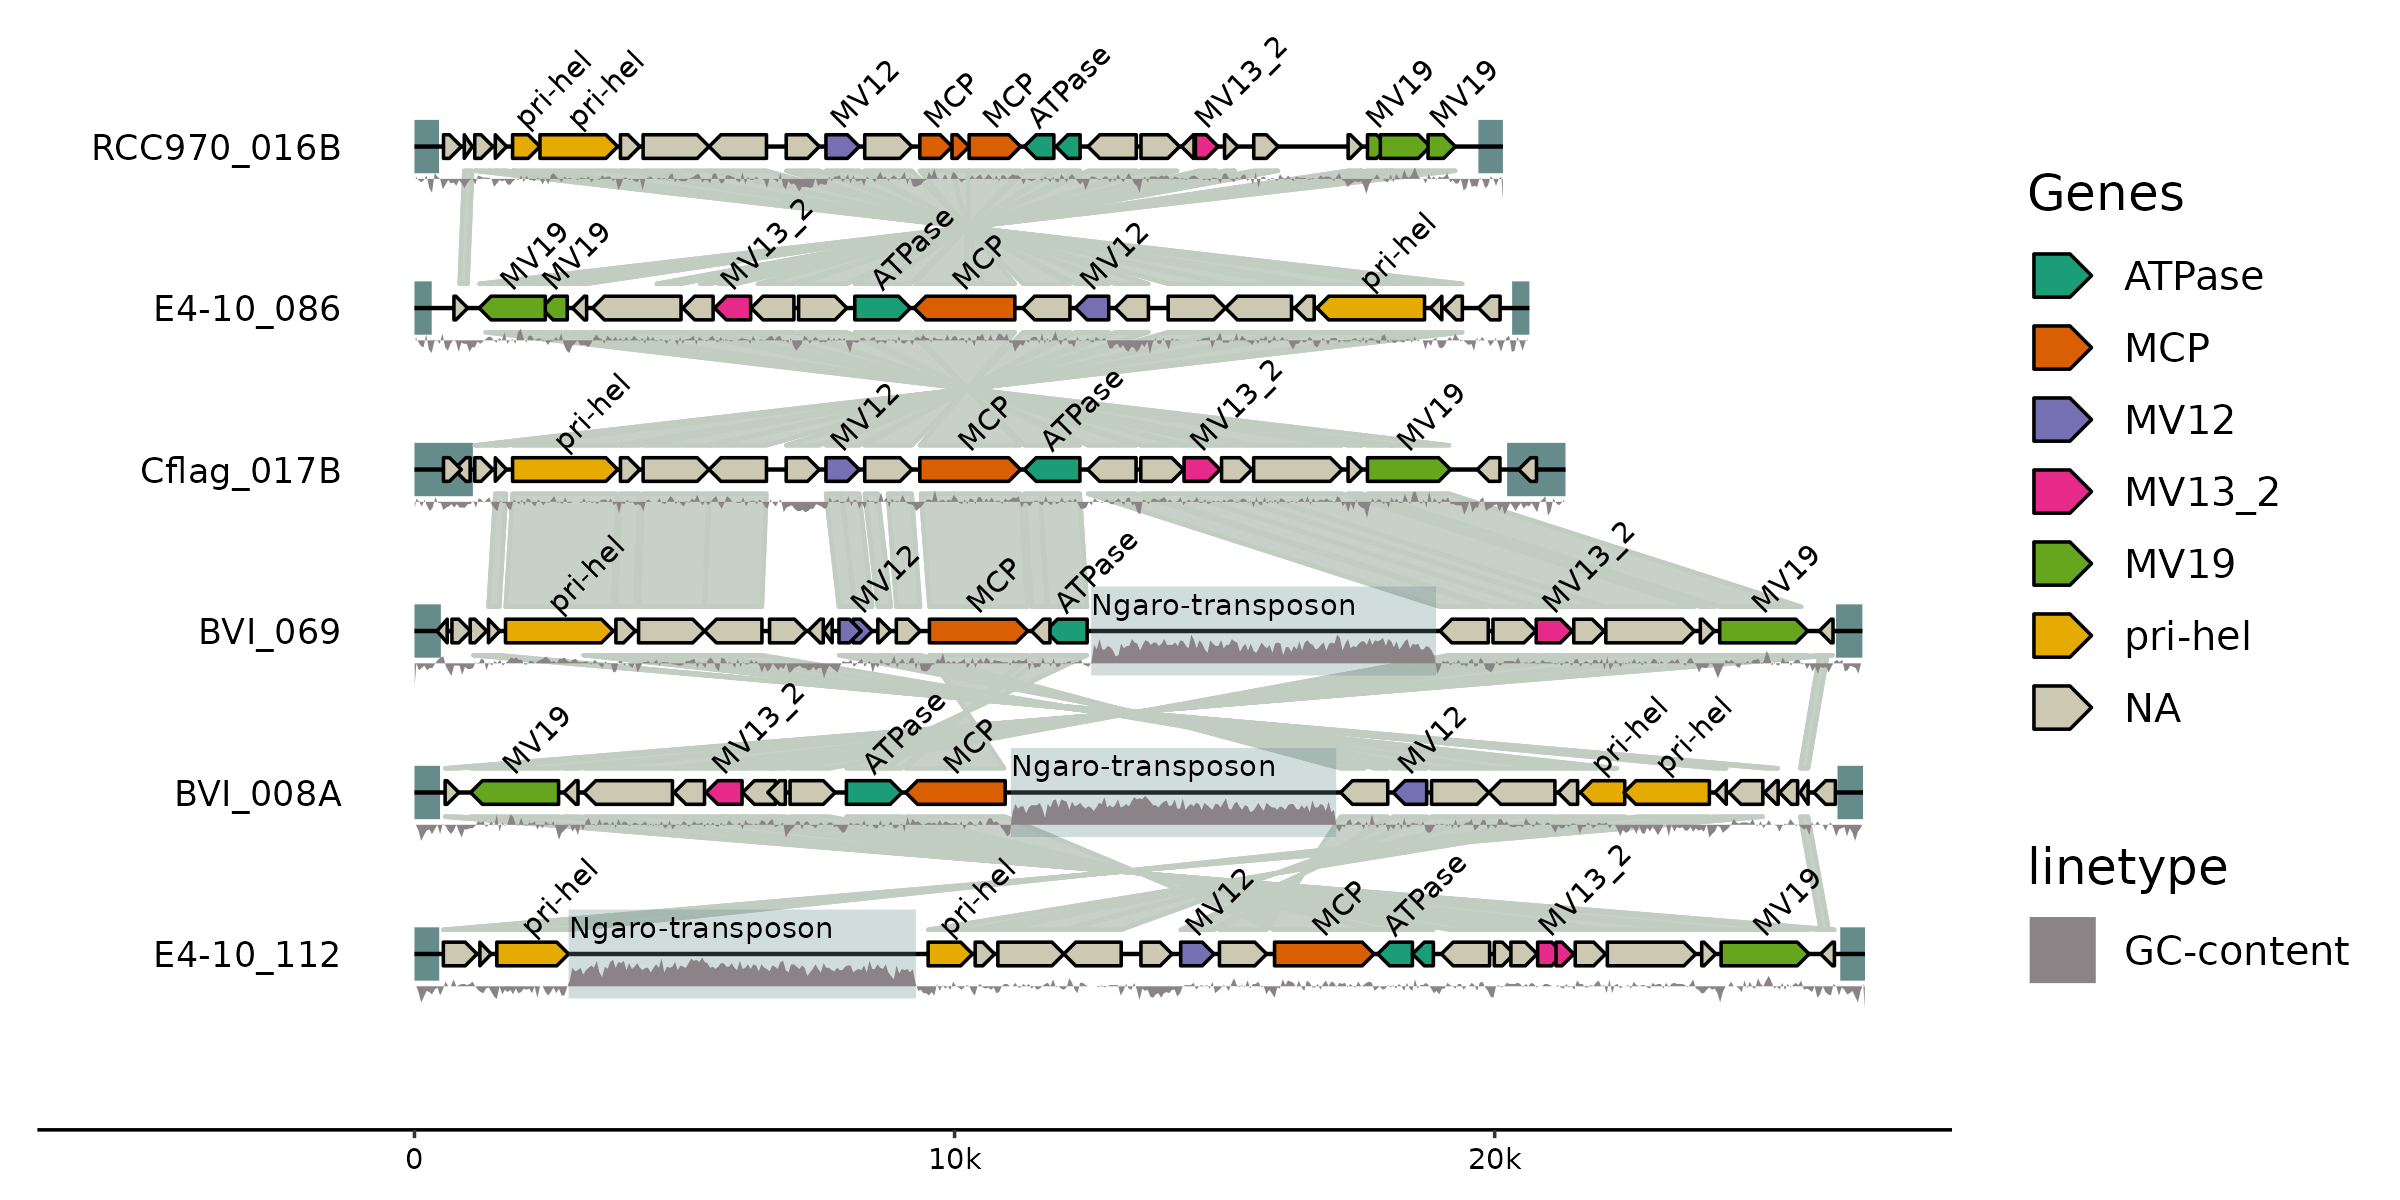
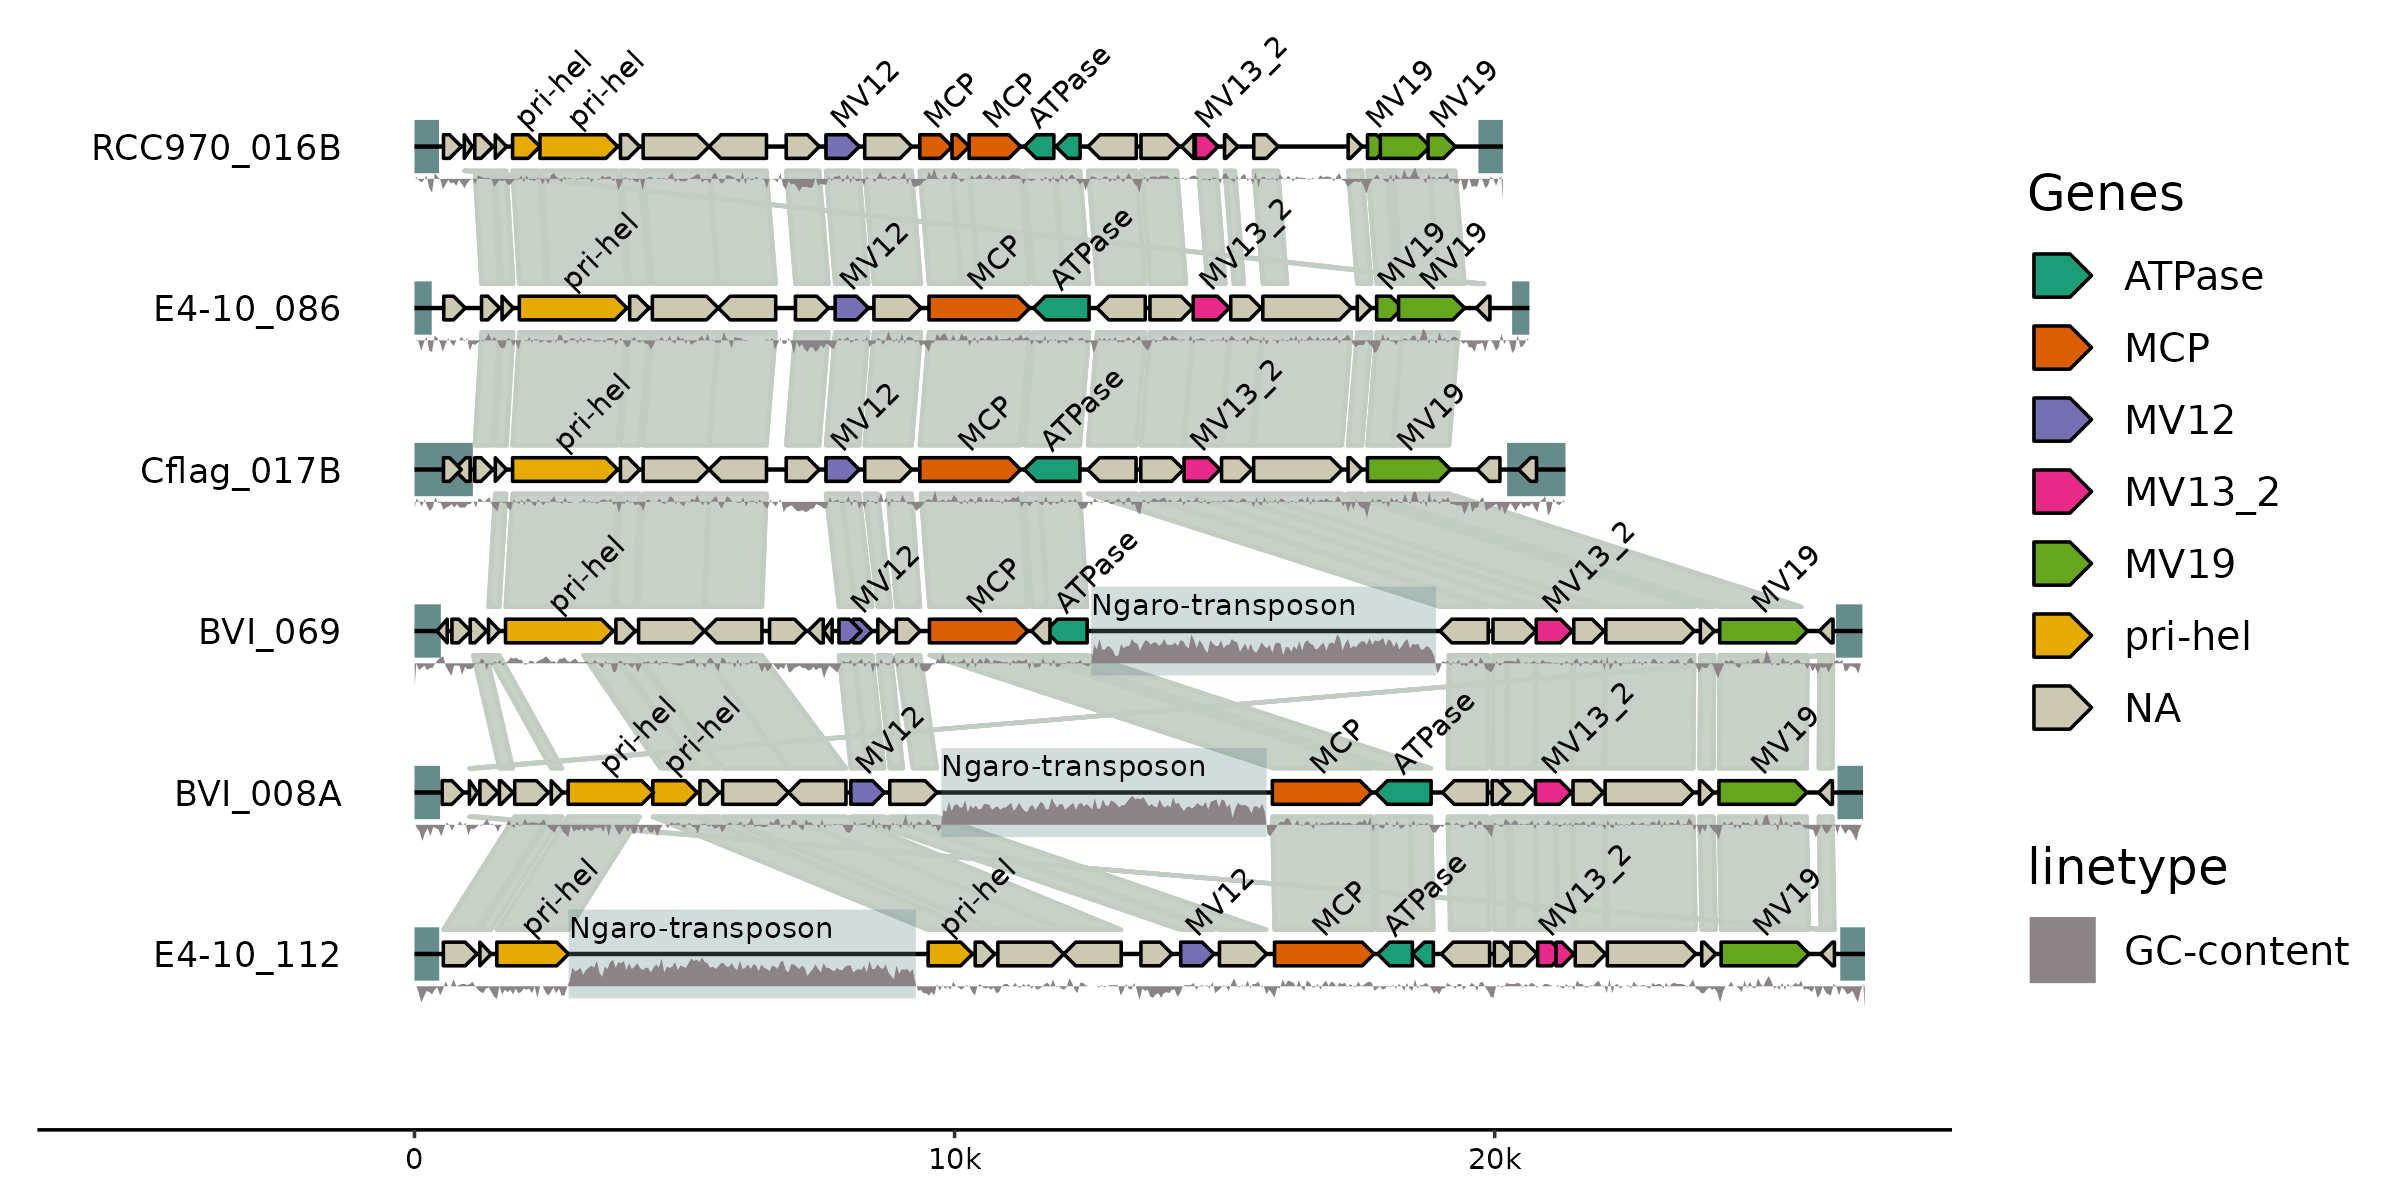
updated front page example

Changed region(s): [[0.1875, 0.5242, 0.7812, 0.7708], [0.1875, 0.1233, 0.625, 0.37]]

diff --git a/README.md b/README.md
@@ -2,7 +2,7 @@
 
 ## A grammar of graphics for comparative genomics
 
-gggenomes is a versatile graphics package for comparative genomics. It extends the popular R visualization package[ggplot2](https://ggplot2.tidyverse.org/) by adding dedicated plot functions for genes, syntenic regions, etc. and verbs to manipulate the plot to, for example, quickly zoom in into gene neighborhoods.
+gggenomes is a versatile graphics package for comparative genomics. It extends the popular R visualization package [ggplot2](https://ggplot2.tidyverse.org/) by adding dedicated plot functions for genes, syntenic regions, etc. and verbs to manipulate the plot to, for example, quickly zoom in into gene neighborhoods.
 
 ## A realistic use case comparing six viral genomes
 
@@ -16,10 +16,11 @@ library(gggenomes)
 # to inspect the example data shipped with gggenomes
 data(package="gggenomes")
 
-gggenomes(emale_genes, emale_seqs, emale_tirs, emale_ava) %>%
-  add_feats(ngaros=emale_ngaros, gc=emale_gc) %>%
-  add_sublinks(emale_prot_ava) %>%
-  flip_by_links() +
+gggenomes(
+  genes = emale_genes, seqs = emale_seqs, links = emale_ava,
+  feats = list(emale_tirs, ngaros=emale_ngaros, gc=emale_gc)) |> 
+  add_sublinks(emale_prot_ava) |>
+  sync() + # synchronize genome directions based on links
   geom_feat(position="identity", size=6) +
   geom_seq() +
   geom_link(data=links(2)) +
@@ -27,14 +28,13 @@ gggenomes(emale_genes, emale_seqs, emale_tirs, emale_ava) %>%
   geom_gene(aes(fill=name)) +
   geom_gene_tag(aes(label=name), nudge_y=0.1, check_overlap = TRUE) +
   geom_feat(data=feats(ngaros), alpha=.3, size=10, position="identity") +
-  geom_feat_note(aes(label="Ngaro-transposon"), feats(ngaros),
+  geom_feat_note(aes(label="Ngaro-transposon"), data=feats(ngaros),
       nudge_y=.1, vjust=0) +
-  geom_ribbon(aes(x=(x+xend)/2, ymax=y+.24, ymin=y+.38-(.4*score),
-      group=seq_id, linetype="GC-content"), feats(gc),
-      fill="lavenderblush4", position=position_nudge(y=-.1)) +
+  geom_wiggle(aes(z=score, linetype="GC-content"), feats(gc),
+      fill="lavenderblush4", position=position_nudge(y=-.2), height = .2) +
   scale_fill_brewer("Genes", palette="Dark2", na.value="cornsilk3")
-
-ggsave("man/figures/emales.png", width=8, height=4)
+  
+ggsave("emales.png", width=8, height=4)
 ```
 
 For a reproducible recipe describing the full *evolution* of an earlier version of this plot with an older version of gggenomes starting from a mere set of contigs, and including the bioinformatics analysis workflow, have a look at [From a few sequences to a complex map in
